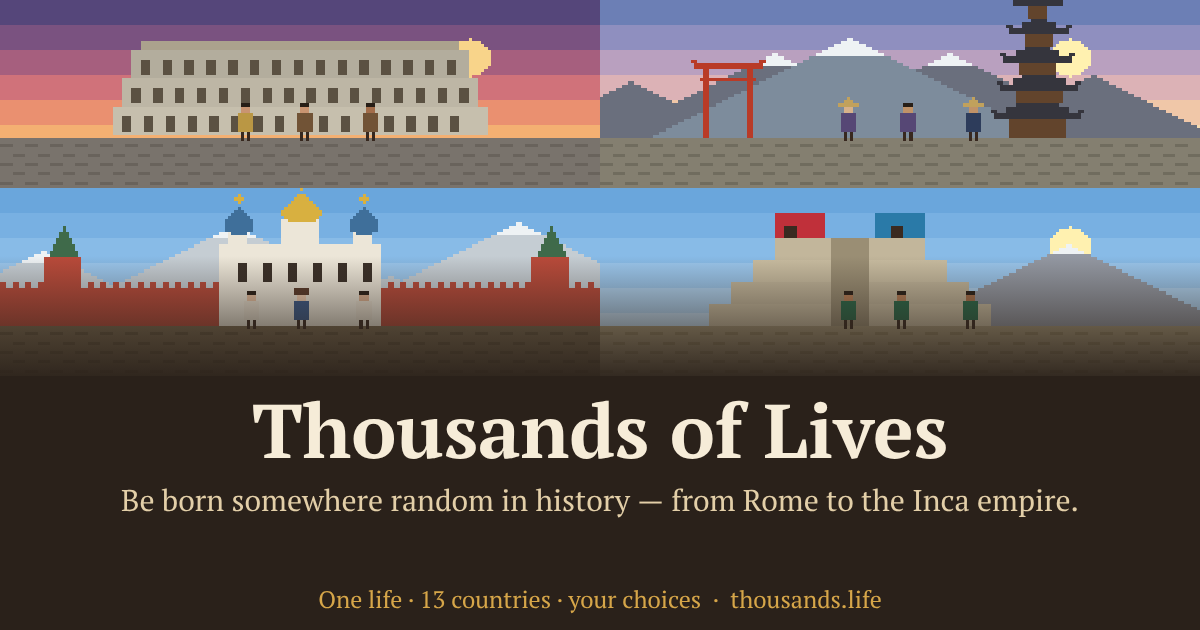
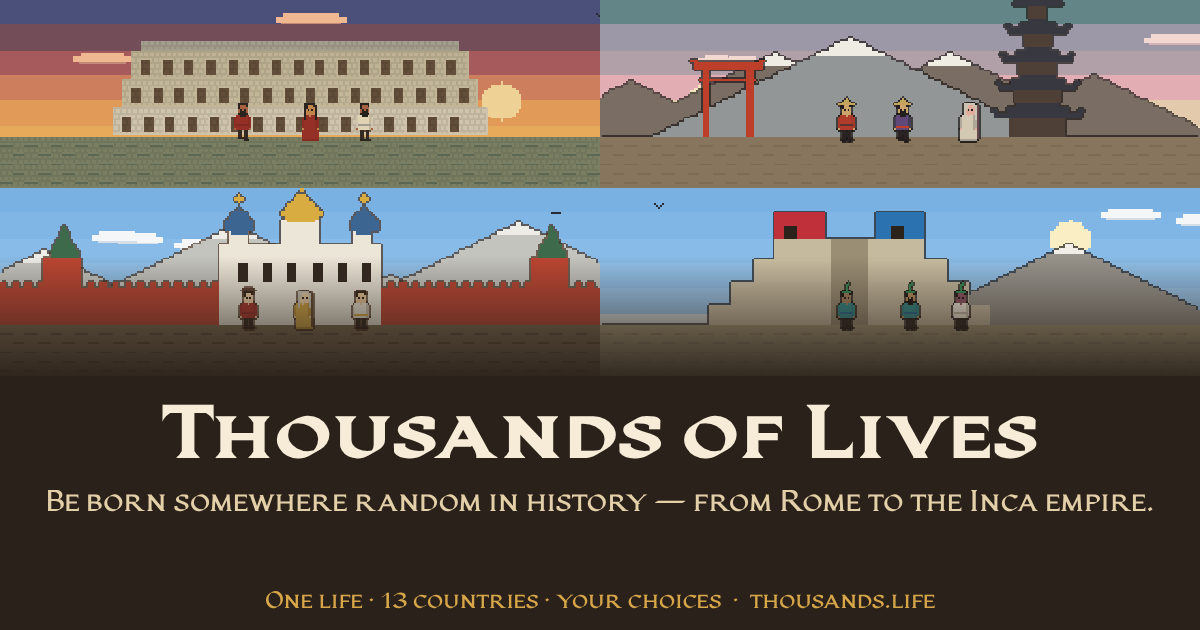
Шрифт «Летопись» (Thousands Letopis 0.2) — единственный шрифт игры
- src/fonts: вариативный woff2 (веса 300–700), @font-face в style.css; Google Fonts и @fontsource/pt-serif убраны
- карточка «Поделиться» и OG-картинки рисуются этим шрифтом (перерисовка после загрузки), подпись «+N» на сцене
- нет внешних запросов ни на сайте, ни в сборке CrazyGames

Claude-Session: https://claude.ai/code/session_011z46G7HtB4VHgeScBGLn88

diff --git a/tools/og.html b/tools/og.html
@@ -3,8 +3,8 @@
   <head>
     <meta charset="UTF-8" />
     <title>OG-картинка</title>
-    <link href="https://fonts.googleapis.com/css2?family=PT+Serif:wght@400;700&display=block" rel="stylesheet" />
     <style>
+      @font-face { font-family: 'Thousands Letopis'; src: url('../src/fonts/ThousandsLetopis-VF.woff2') format('woff2'); font-weight: 300 700; font-display: block; }
       body { margin: 0; background: #000; }
       canvas { display: block; }
     </style>
@@ -19,7 +19,7 @@
         ru: { title: 'Тысячи жизней', sub: 'Родись в случайном месте истории — от Рима до империи инков.', tag: 'Одна жизнь · 13 стран · ваши решения' },
         en: { title: 'Thousands of Lives', sub: 'Be born somewhere random in history — from Rome to the Inca empire.', tag: 'One life · 13 countries · your choices' },
       }[lang]
-      await document.fonts.load('700 80px "PT Serif"').catch(() => {})
+      await document.fonts.load("700 80px 'Thousands Letopis'").catch(() => {})
       const c = document.getElementById('c')
       const ctx = c.getContext('2d')
       ctx.fillStyle = '#2a211a'
@@ -51,12 +51,12 @@
       ctx.fillRect(0, ph - 120, 1200, 130)
       ctx.fillStyle = '#f6ecd8'
       ctx.textAlign = 'center'
-      ctx.font = '700 76px "PT Serif", Georgia, serif'
+      ctx.font = "700 76px 'Thousands Letopis', serif"
       ctx.fillText(T.title, 600, ph + 82)
-      ctx.font = '400 30px "PT Serif", Georgia, serif'
+      ctx.font = "400 30px 'Thousands Letopis', serif"
       ctx.fillStyle = '#e3cfa8'
       ctx.fillText(T.sub, 600, ph + 135)
-      ctx.font = '400 24px "PT Serif", Georgia, serif'
+      ctx.font = "400 24px 'Thousands Letopis', serif"
       ctx.fillStyle = '#d6a649'
       ctx.fillText(T.tag + '  ·  thousands.life', 600, 608)
       document.body.dataset.ready = '1'

diff --git a/src/ui/Summary.tsx b/src/ui/Summary.tsx
@@ -603,7 +603,9 @@ function ShareDialog({ what, life, era, archetype, onClose, onUpdate }: { what: 
 
   useEffect(() => {
     if (!canvas.current) return
-    drawCard(canvas.current, format, {
+    const el = canvas.current
+    // Холст сам не перерисуется, когда догрузится шрифт «Летопись», — рисуем ещё раз после загрузки.
+    const draw = () => drawCard(el, format, {
       name,
       years: ds ? t('share.dream.when', { year: formatYear(ds.year, lang) }) : years,
       place: `${t(`era.${ds?.era ?? life.era}`)} · ${t(`region.${life.region}`)}`,
@@ -618,6 +620,8 @@ function ShareDialog({ what, life, era, archetype, onClose, onUpdate }: { what: 
       scene: ds ? { place: 'landmark', time: 'night', people: 1, props: [] } : { place: 'landmark', time: 'sunset', people: 3, props: era.id === 'E03' && life.region === 'egypt' ? ['palm', 'sun'] : ['sun'] },
       dark,
     })
+    draw()
+    document.fonts?.load("700 40px 'Thousands Letopis'").then(draw, () => {})
   }, [format, clean.text, lang])
 
   const save = () => onUpdate({ ...life, playerLine: clean.text })

diff --git a/src/style.css b/src/style.css
@@ -1,4 +1,15 @@
 /* «Тёплая гравюра»: бумага, чернила, сепия. */
+
+/* Шрифт игры — «Летопись» (Thousands Letopis 0.2, src/fonts): глифическая антиква широкого пера,
+   прописные и капитель; один вариативный файл, веса 300–700. Других шрифтов в игре нет. */
+@font-face {
+  font-family: 'Thousands Letopis';
+  src: url('./fonts/ThousandsLetopis-VF.woff2') format('woff2');
+  font-weight: 300 700;
+  font-style: normal;
+  font-display: swap;
+}
+
 :root {
   --paper: #f3ead8;
   --paper-2: #ebdfc8;
@@ -15,7 +26,7 @@
   --art-1: #d9c39b;
   --art-2: #b9955f;
   --shadow: 0 1px 0 rgba(43, 33, 25, 0.06), 0 6px 18px rgba(43, 33, 25, 0.08);
-  --font: 'PT Serif', Georgia, 'Times New Roman', serif;
+  --font: 'Thousands Letopis', serif;
   --size: 17px;
   color-scheme: light;
 }

diff --git a/index.html b/index.html
@@ -5,9 +5,6 @@
     <meta name="viewport" content="width=device-width, initial-scale=1.0" />
     <meta name="theme-color" content="#2a211a" />
     <meta name="description" content="Симулятор одной жизни в случайной эпохе истории. A life simulator set in a random era of history." />
-    <link rel="preconnect" href="https://fonts.googleapis.com" />
-    <link rel="preconnect" href="https://fonts.gstatic.com" crossorigin />
-    <link href="https://fonts.googleapis.com/css2?family=PT+Serif:ital,wght@0,400;0,700;1,400&display=swap" rel="stylesheet" />
     <title>Тысячи жизней</title>
     <!-- Превью ссылки в соцсетях и мессенджерах. Картинки og-ru.png и og-en.png рисует tools/og.html (npm run dev → /tools/og.html?lang=en). -->
     <meta property="og:type" content="website" />

diff --git a/src/main.tsx b/src/main.tsx
@@ -6,14 +6,6 @@ import './style.css'
 initPlatform()
 render(<App />, document.getElementById('app')!)
 
-// Шрифт на портале лежит в самой сборке: внешних запросов к Google Fonts нет.
-if (import.meta.env.VITE_PLATFORM === 'crazygames') {
-  // Наборы символов (кириллица, латиница…) браузер грузит по необходимости.
-  import('@fontsource/pt-serif/400.css')
-  import('@fontsource/pt-serif/700.css')
-  import('@fontsource/pt-serif/400-italic.css')
-}
-
 // Офлайн-кэш — только на своём сайте: на порталах игру отдаёт их сервер.
 if (import.meta.env.PROD && platform.name === 'web' && 'serviceWorker' in navigator) {
   navigator.serviceWorker.register('./sw.js').catch(() => {})

diff --git a/vite.config.ts b/vite.config.ts
@@ -12,8 +12,6 @@ function portalHtml(platform: string | undefined): Plugin {
     transformIndexHtml(html) {
       if (platform !== 'crazygames') return html
       return html
-        .replace(/\s*<link rel="preconnect"[^>]*>/g, '')
-        .replace(/\s*<link href="https:\/\/fonts\.googleapis[^>]*>/g, '')
         .replace(/\s*<!--[^>]*соцсетях[\s\S]*?-->/g, '')
         .replace(/\s*<meta (property="og:|name="twitter:)[^>]*>/g, '')
         .replace(/\s*<link rel="(canonical|manifest)"[^>]*>/g, '')

diff --git a/src/ui/shareCard.ts b/src/ui/shareCard.ts
@@ -52,7 +52,7 @@ export function drawCard(canvas: HTMLCanvasElement, format: CardFormat, d: CardD
   const muted = d.dark ? '#a8977f' : '#7d6b58'
   const accent = d.dark ? '#d07a52' : '#8e3b22'
   const gold = d.dark ? '#d1a35a' : '#a87a2e'
-  const serif = "'PT Serif', Georgia, serif"
+  const serif = "'Thousands Letopis', serif"
   ctx.fillStyle = paper
   ctx.fillRect(0, 0, cw, ch)
 

diff --git a/src/pixel/scene.ts b/src/pixel/scene.ts
@@ -1988,7 +1988,7 @@ export function composeScene(ctx: CanvasRenderingContext2D, b: BuiltScene, t: nu
     ctx.fillStyle = 'rgba(20,16,12,0.7)'
     ctx.fillRect(b.badge.x - 2, b.badge.y - 10, 20, 13)
     ctx.fillStyle = '#f2ead8'
-    ctx.font = 'bold 11px sans-serif'
+    ctx.font = "700 11px 'Thousands Letopis', serif"
     ctx.fillText(b.badge.text, b.badge.x, b.badge.y)
   }
 }

diff --git a/src/fonts/README-Letopis.md b/src/fonts/README-Letopis.md
@@ -1,0 +1,72 @@
+# «Летопись» (Thousands Letopis) — версия 0.2
+
+Заголовочный шрифт игры «Тысячи жизней»: глифическая антиква широкого пера (30°)
+с клиновидными засечками. Прописные + капитель (строчные буквы набираются капителью).
+
+## Что нового по сравнению с 0.1
+- **Новый движок пера.** Огибающая пера строится точно, кривыми Безье, без булевых
+  ломаных: контуры гладкие, точек в 5–10 раз меньше.
+- **Вариативная ось `wght` 300–700** (Light → Bold) и 5 статических начертаний.
+- **Заметные клиновидные засечки** и шпоры на концах горизонталей (E, T, L, Z, Г…).
+- **Обычные Л и Д**; древние формы Λ-образных Л/Д — через `ss01`.
+- **Диакритика через якоря**: отдельные, более плоские знаки для прописных (`.case`),
+  комбинируемые знаки U+0300…0328 позиционируются через `mark`, после прописных
+  сами переключаются на `.case` (`ccmp`).
+- **Символы для интерфейса**: `[ ] { } \ | _ + − = × ÷ ± < > ^ ~ * # % & @ • ‹ › → ←`,
+  `° ª º © ® ™`, валюты `$ € £ ¥ ₽ ₴ ₺`, тонкие/цифровые пробелы.
+- **OpenType**: `kern` (≈3550 пар в 98×83 классах: автокернинг по общему просвету пары, для пунктуации — по глубине «вылета» буквы),
+  `mark`, `ccmp`, `locl` (турецкий/азербайджанский/крымскотатарский i → İ),
+  `case`, `tnum`/`pnum`, `c2sc`, `cpsp`, `ss01`.
+- Хинтинг статики (ttfautohint), корректные вертикальные метрики, все файлы проходят OTS.
+
+## Языки
+Русский, украинский, английский, испанский, португальский, немецкий (ẞ/ß), французский,
+итальянский, турецкий, польский; также чешский, румынский, белорусский Ў.
+
+## Файлы (`dist/`)
+| Файл | Для чего |
+|---|---|
+| `variable/ThousandsLetopis[wght].woff2` (≈54 КБ) | веб/игра, все веса в одном файле |
+| `woff2/ThousandsLetopis-*.woff2` (≈26 КБ) | веб, отдельные веса |
+| `ttf/ThousandsLetopis-*.ttf` | движки (Unity TMP, Unreal, Godot), дизайн; без перекрытий, с хинтингом |
+| `variable/ThousandsLetopis[wght].ttf` | дизайн и движки с поддержкой VF |
+
+> Для генераторов SDF/MSDF (TextMeshPro, Godot MSDF) берите **статические TTF**: в
+> вариативном файле контуры перекрываются, как и положено VF, а MSDF этого не любит.
+
+## Подключение
+```css
+@font-face {
+  font-family: 'Thousands Letopis';
+  src: url('/fonts/ThousandsLetopis[wght].woff2') format('woff2');
+  font-weight: 300 700; font-display: swap;
+}
+h1, .hero-name, .chapter-title { font-family: 'Thousands Letopis', serif; font-weight: 500; }
+.all-caps   { text-transform: uppercase; font-feature-settings: 'case', 'cpsp'; }
+.counter    { font-variant-numeric: tabular-nums; }
+.ancient    { font-feature-settings: 'ss01'; }   /* Λ-образные Л и Д */
+```
+Для турецкого задавайте `lang="tr"`, иначе `i` в капители будет без точки.
+Рекомендуемый кегль — от 18–20 px. Основной текст — Thousands Serif.
+
+## Пересборка
+```
+pip install fontmake ufoLib2 ttfautohint-py opentype-sanitizer
+STATIC=1 ./make.sh && python tools/finish.py
+```
+- `src/glyphs.py` — скелеты букв (линия движения пера), `src/charset.py` — набор и Unicode.
+- `src/build.py` — мастера (`MASTERS`: ширина пера, волосная, расширение), засечки (`serif`, `spur`).
+- `src/kerning.py` — автокернинг (`DEPTH`, `FACTOR`, `MIN_GAP`).
+- `tools/render.py` — пробы: `python tools/render.py dist/variable/…ttf out.png --wght 300,700 "Текст"`.
+- `v01/`, `src_v01/` — файлы и исходники прототипа 0.1 для сравнения.
+
+## Права
+Шрифт создан для проекта, сторонних лицензий нет. © 2026 Thousands of Lives.
+
+## Проверка в вебе
+`webtest/index.html` — автотест для браузера: загрузка VF и статики, покрытие 10 языков без подмены
+шрифта, ось веса, kern / tnum / ss01 / cpsp, турецкая i, комбинируемые знаки.
+```
+python3 -m http.server 8790 -d .   # затем открыть http://localhost:8790/webtest/
+```
+При обновлении шрифта меняйте версию в URL (`…woff2?v=N`), иначе браузер покажет старый файл из кэша.

diff --git a/CLAUDE.md b/CLAUDE.md
@@ -65,6 +65,9 @@ npm run build       # dist/ + dist/_worker.js (приёмник аналитик
   `common/ru_dreams.json`/`en_dreams.json`, экран — `src/ui/Dream.tsx`, награды группы `dream` и «Школьная программа» —
   `achievements.ts`/`Awards.tsx`, отчёт в `/admin` — `SQL.dreamSteps`. Новый сон: запись в `dreams.json` + тексты RU/EN;
   `validateDreams()` проверяет ответы, допуски и формулы на краях параметров.
+- Шрифт — только «Летопись» (Thousands Letopis 0.2): `src/fonts/ThousandsLetopis-VF.woff2` (вариативный, веса 300–700,
+  прописные + капитель), `@font-face` в `style.css`; на холстах (карточка «Поделиться», OG) — тот же шрифт, перерисовка
+  после `document.fonts.load`. Google Fonts и PT Serif убраны. README шрифта — `src/fonts/README-Letopis.md`.
 - Графика (`docs/TZ_graphics.md`): сцена 320×100 из кэшируемых слоёв + движение (`scene.ts`, `fx.ts`, `figures.ts`),
   сезоны и погода (`season.ts`, `climate` в `era.json`), стиль искусства страны (`art.ts`, флаг `art_strength`),
   звуки места (`setAmbience` в `audio.ts`), иллюстрации G3 (`illustrations.ts`, `src/art/`, `npm run art`),

diff --git a/docs/CRAZYGAMES.md b/docs/CRAZYGAMES.md
@@ -23,7 +23,7 @@ npm run build:crazygames      # → dist-crazygames/ и crazygames.zip
 | На сайте | На CrazyGames |
 | --- | --- |
 | Яндекс Метрика и свой приёмник событий | Только сигналы SDK CrazyGames, своей статистики нет |
-| Шрифт PT Serif с Google Fonts | Шрифт лежит в архиве (`@fontsource/pt-serif`) |
+| Шрифт с внешнего сервера | Шрифт «Летопись» лежит в сборке (`src/fonts`), внешних запросов нет ни на сайте, ни на портале |
 | Превью для соцсетей, манифест, офлайн-кэш | Убраны |
 | «Поделиться»: системное меню, X, Threads, ссылка на thousands.life | Картинка карточки и «Скопировать текст» со ссылкой-приглашением на страницу игры на CrazyGames |
 | Форма отзывов | Скрыта (отзывы — в комментариях на странице игры) |
